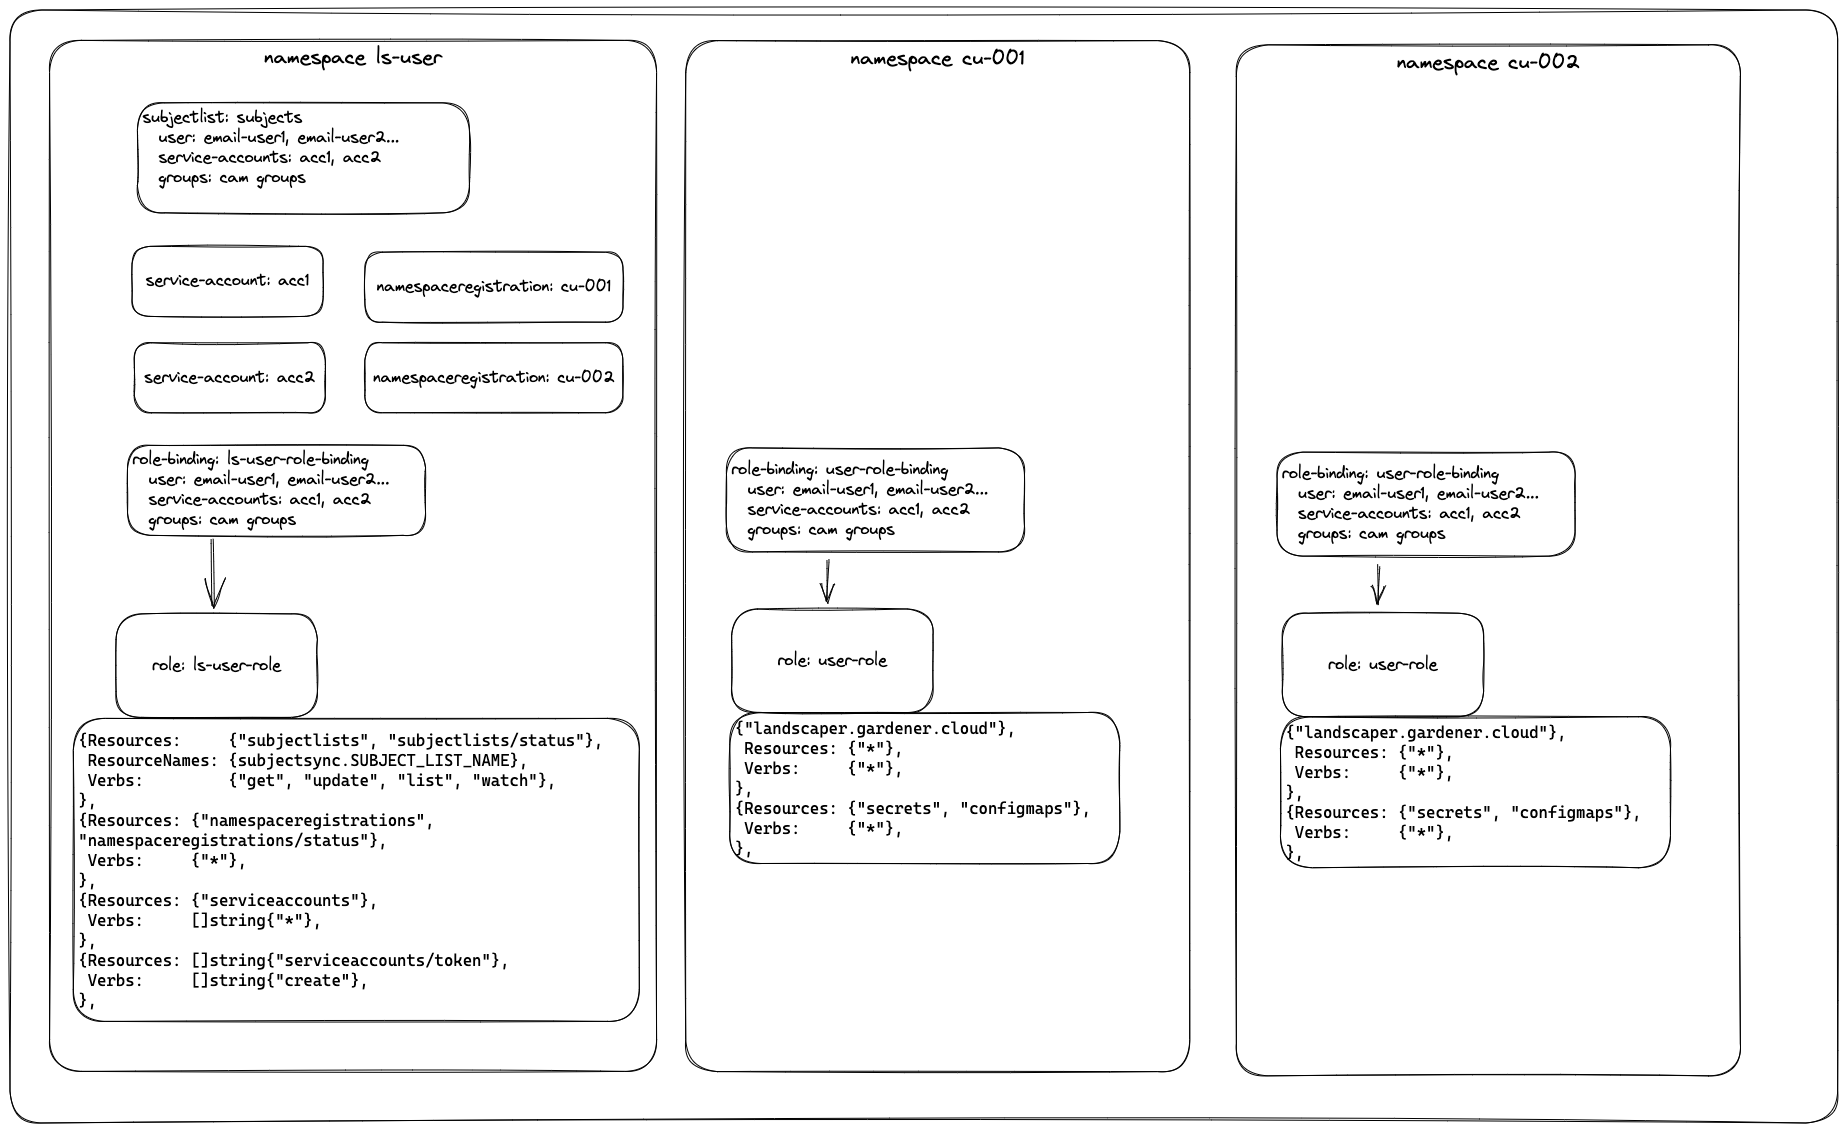
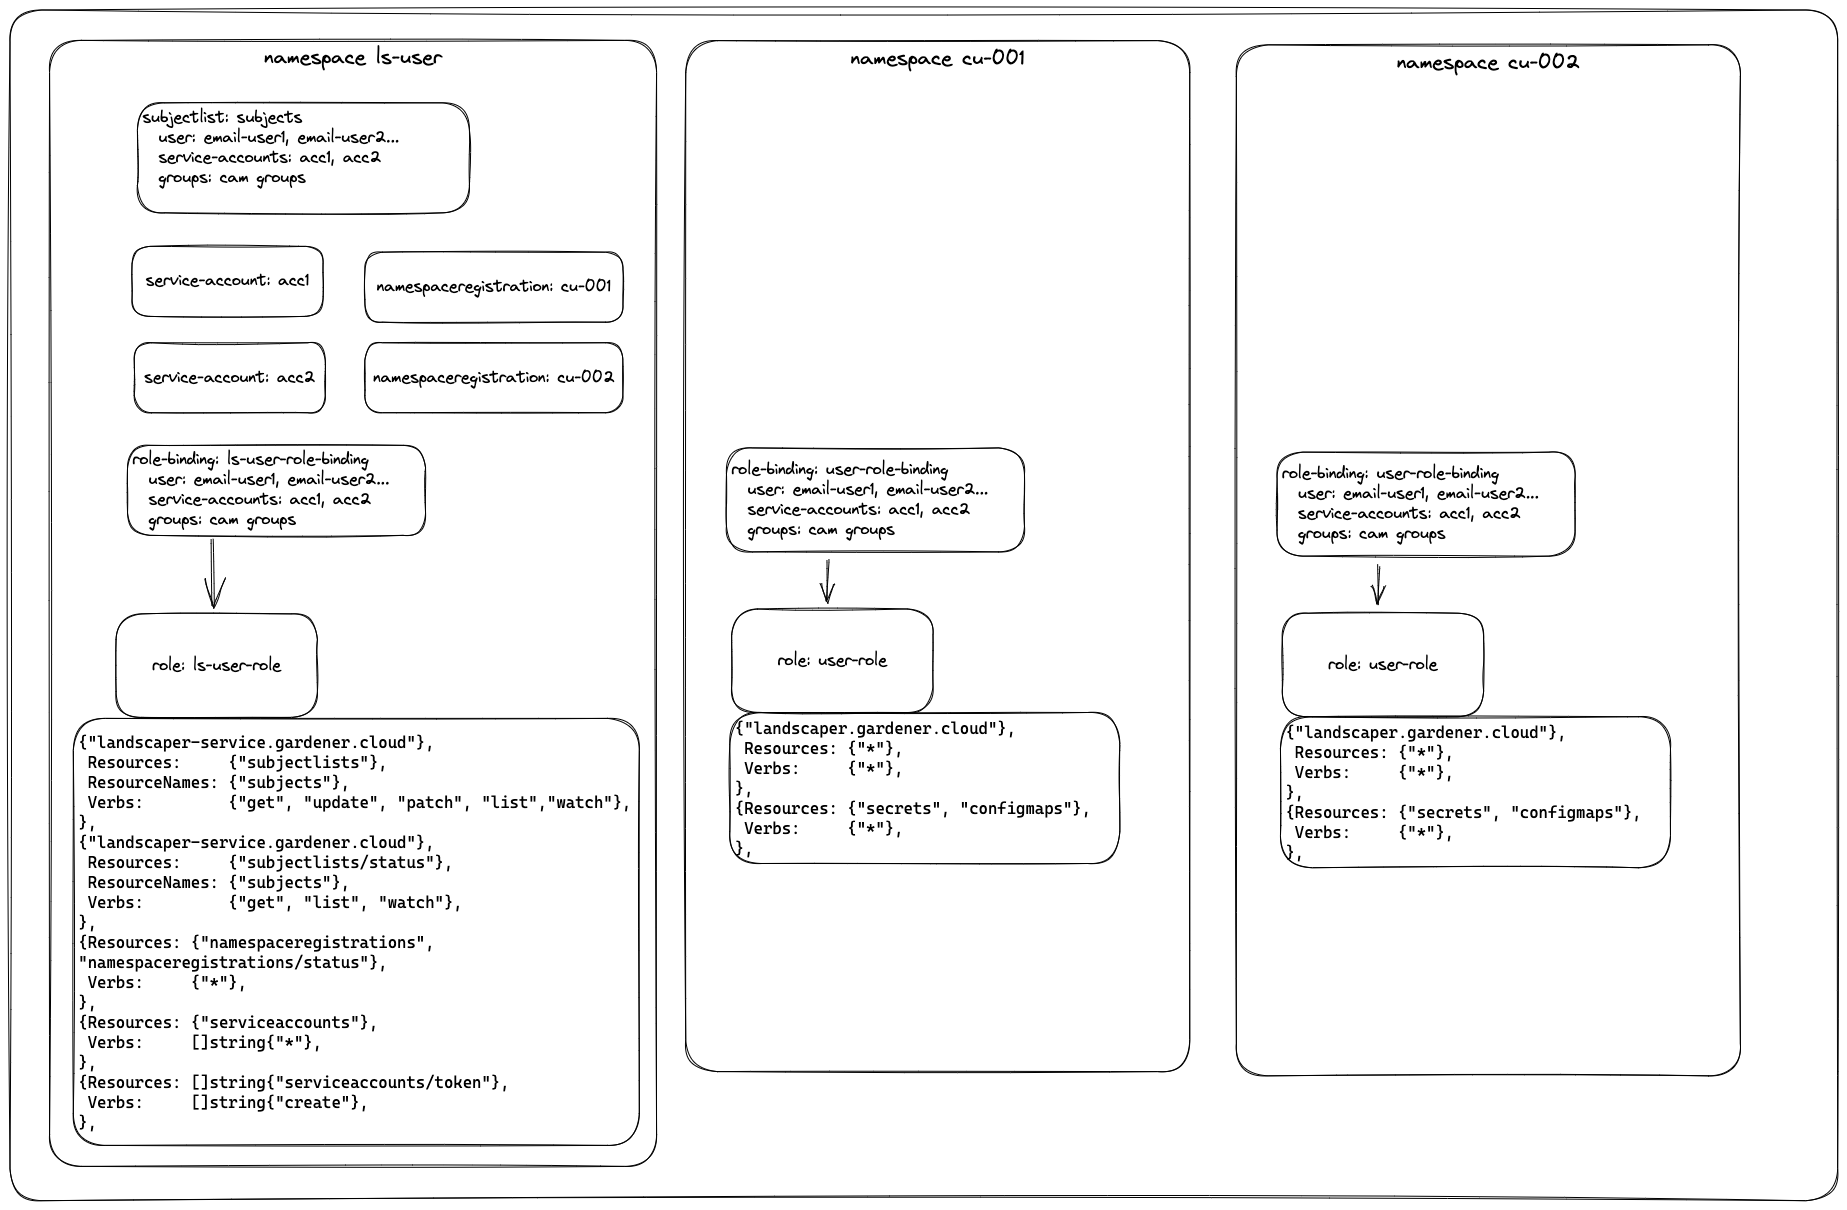
architecture image

diff --git a/cmd/landscaper-service-target-shoot-sidecar-server/app/app.go b/cmd/landscaper-service-target-shoot-sidecar-server/app/app.go
@@ -139,9 +139,15 @@ func createOrUpdateLsUserRole(ctx context.Context, c client.Client) error {
 	rules := []rbacv1.PolicyRule{
 		{
 			APIGroups:     []string{"landscaper-service.gardener.cloud"},
-			Resources:     []string{"subjectlists", "subjectlists/status"},
+			Resources:     []string{"subjectlists"},
 			ResourceNames: []string{subjectsync.SUBJECT_LIST_NAME},
-			Verbs:         []string{"get", "update", "list", "watch"},
+			Verbs:         []string{"get", "update", "patch", "list", "watch"},
+		},
+		{
+			APIGroups:     []string{"landscaper-service.gardener.cloud"},
+			Resources:     []string{"subjectlists/status"},
+			ResourceNames: []string{subjectsync.SUBJECT_LIST_NAME},
+			Verbs:         []string{"get", "list", "watch"},
 		},
 		{
 			APIGroups: []string{"landscaper-service.gardener.cloud"},
@@ -165,7 +171,6 @@ func createOrUpdateLsUserRole(ctx context.Context, c client.Client) error {
 			Name:      subjectsync.LS_USER_ROLE_IN_NAMESPACE,
 			Namespace: subjectsync.LS_USER_NAMESPACE,
 		},
-		Rules: rules,
 	}
 
 	_, err := kubernetes.CreateOrUpdate(ctx, c, role, func() error {
